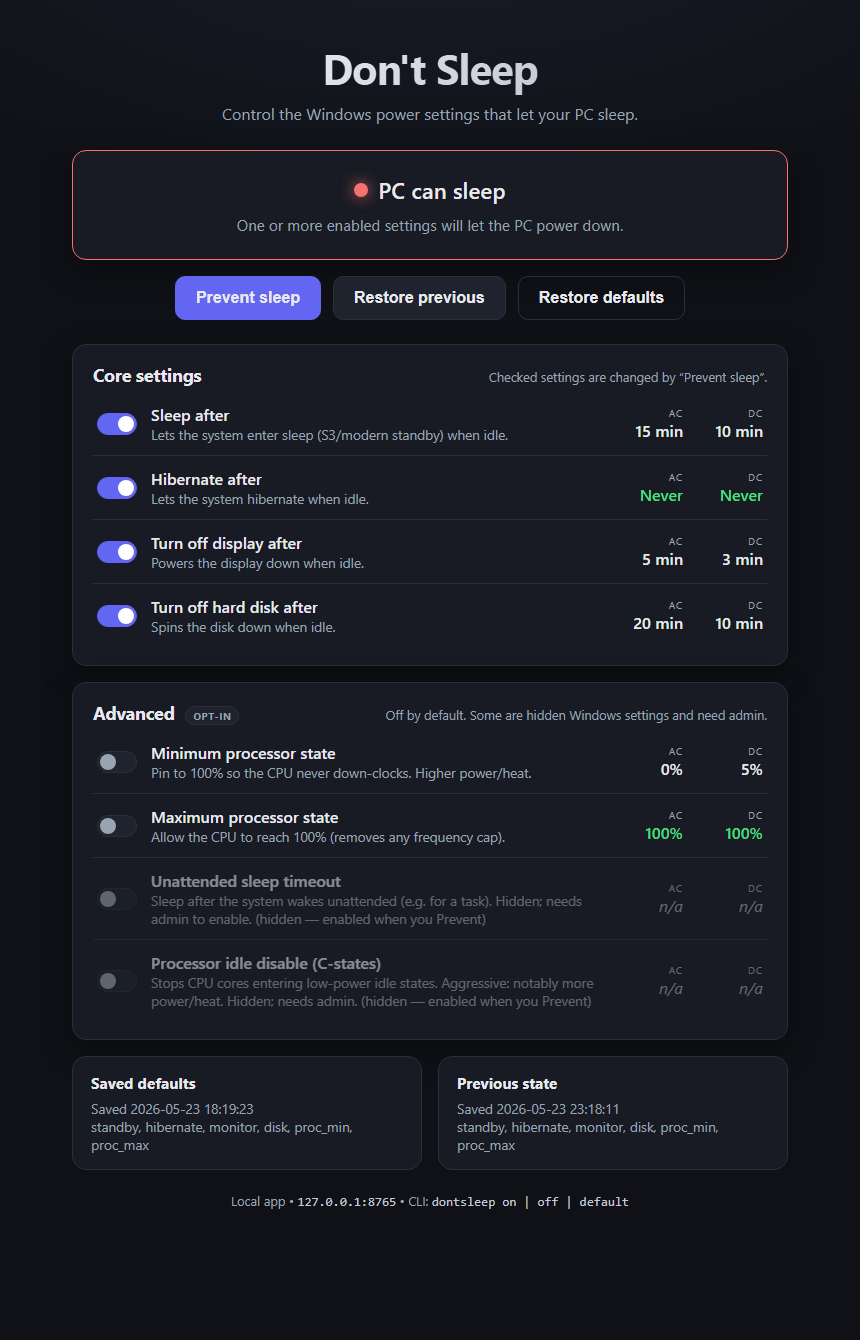
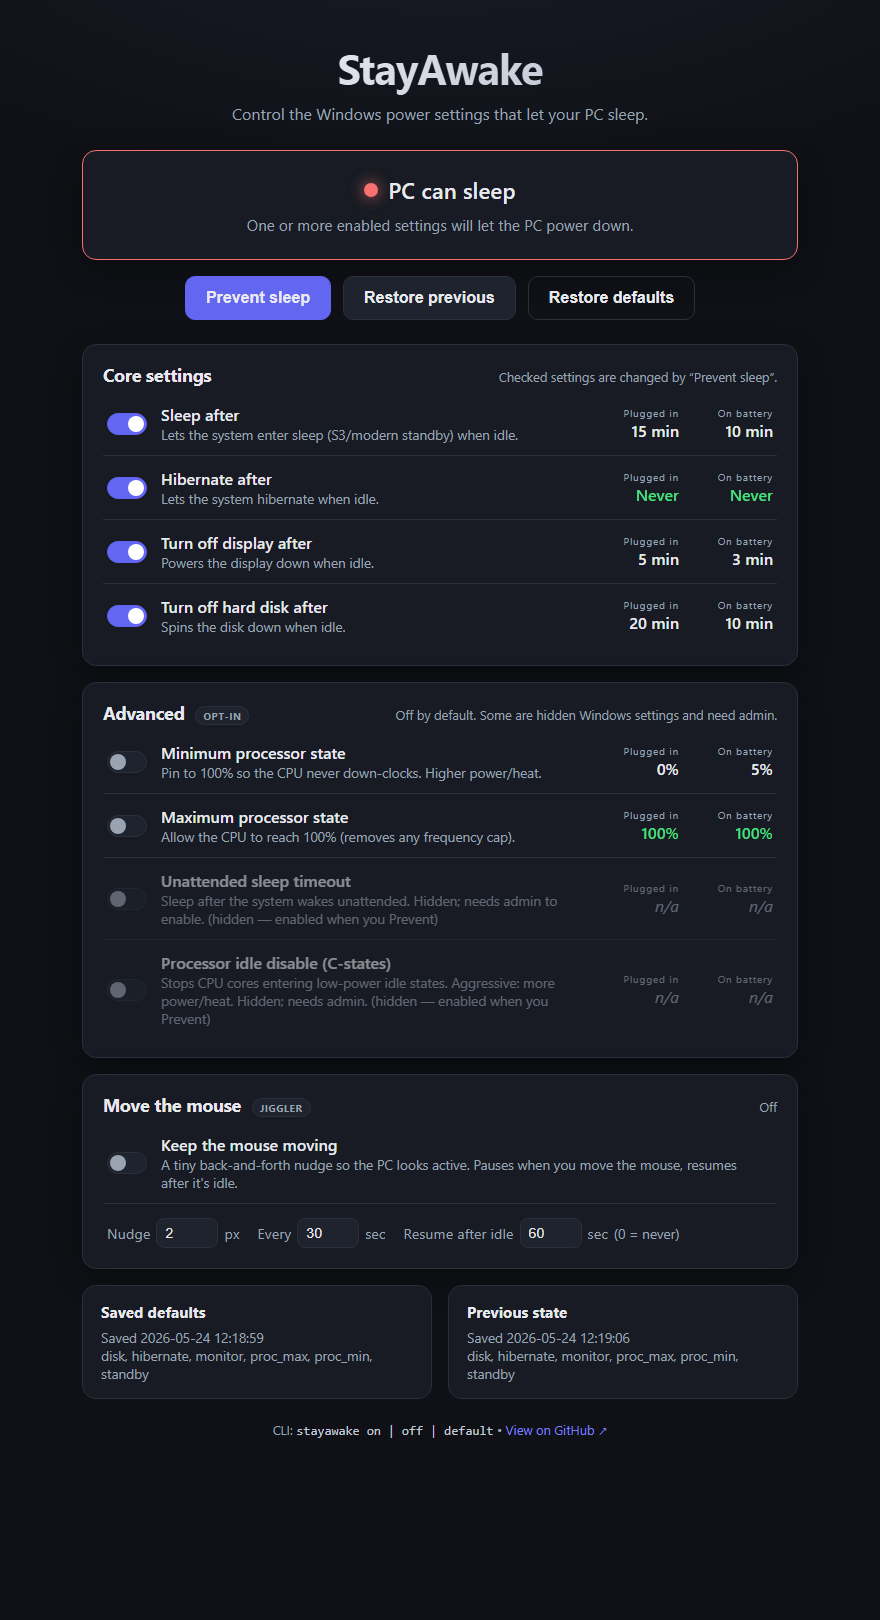
Add --port flag, GitHub link in the UI, and refreshed screenshots
- --port N: default 8765 auto-bumps to the next free port if busy;
  an explicit --port is strict (errors if the port is taken). The
  active port is persisted so open/stop find it.
- Web UI footer links to the GitHub repo.
- Regenerate README/Pages screenshots (StayAwake brand,
  "Plugged in / On battery", jiggler card, GitHub link).

diff --git a/static/index.html b/static/index.html
@@ -82,7 +82,7 @@
     <div class="toast" id="toast" hidden></div>
 
     <footer class="footer">
-      <span>Local app • <code>127.0.0.1:8765</code> • CLI: <code>stayawake on | off | default</code></span>
+      <span>CLI: <code>stayawake on | off | default</code> • <a href="https://github.com/vdiehl/dont-sleep" target="_blank" rel="noopener">View on GitHub&nbsp;↗</a></span>
     </footer>
   </main>
 

diff --git a/static/style.css b/static/style.css
@@ -139,6 +139,8 @@ html, body {
 
 .footer { text-align: center; color: var(--muted); font-size: 0.8rem; margin-top: 8px; }
 .footer code { color: #c3c9d6; }
+.footer a { color: var(--primary-hover); text-decoration: none; }
+.footer a:hover { text-decoration: underline; }
 
 @media (max-width: 560px) {
   .snapshots { grid-template-columns: 1fr; }

diff --git a/main.go b/main.go
@@ -56,24 +56,87 @@ func jigglerLoad() (bool, jiggler.Config) {
 var staticFS embed.FS
 
 const (
-	host = "127.0.0.1"
-	port = 8765
+	host        = "127.0.0.1"
+	defaultPort = 8765
 )
 
-func addr() string { return fmt.Sprintf("%s:%d", host, port) }
-func url() string  { return fmt.Sprintf("http://%s/", addr()) }
+func addrFor(p int) string { return fmt.Sprintf("%s:%d", host, p) }
+func urlFor(p int) string  { return fmt.Sprintf("http://%s/", addrFor(p)) }
+
+// The active port is written here by `serve` so `open`/`stop` can find it
+// (needed because the port may be chosen via --port or auto-bumped if busy).
+func portFile() string { return filepath.Join(core.StateDir(), "port") }
+
+func writePortFile(p int) {
+	_ = os.MkdirAll(core.StateDir(), 0o755)
+	_ = os.WriteFile(portFile(), []byte(strconv.Itoa(p)), 0o644)
+}
+
+func readActivePort() (int, bool) {
+	b, err := os.ReadFile(portFile())
+	if err != nil {
+		return 0, false
+	}
+	p, err := strconv.Atoi(strings.TrimSpace(string(b)))
+	if err != nil {
+		return 0, false
+	}
+	return p, true
+}
+
+// parsePort pulls a `--port N` flag out of args, defaulting to def.
+func parsePort(args []string, def int) int {
+	for i := 0; i+1 < len(args); i++ {
+		if args[i] == "--port" {
+			if n, err := strconv.Atoi(args[i+1]); err == nil && n > 0 && n < 65536 {
+				return n
+			}
+		}
+	}
+	return def
+}
+
+// hasPortFlag reports whether the user explicitly passed a valid --port.
+func hasPortFlag(args []string) bool {
+	for i := 0; i+1 < len(args); i++ {
+		if args[i] == "--port" {
+			if _, err := strconv.Atoi(args[i+1]); err == nil {
+				return true
+			}
+		}
+	}
+	return false
+}
+
+// listen binds 127.0.0.1, trying `tries` consecutive ports from `start`.
+// tries == 1 means honor exactly that port (used for an explicit --port).
+func listen(start, tries int) (net.Listener, int, error) {
+	var lastErr error
+	for p := start; p < start+tries && p < 65536; p++ {
+		ln, err := net.Listen("tcp", addrFor(p))
+		if err == nil {
+			return ln, p, nil
+		}
+		lastErr = err
+	}
+	return nil, 0, fmt.Errorf("could not bind a port near %d: %v", start, lastErr)
+}
 
 func main() {
+	// First non-flag token is the command; flags (e.g. --port) may follow or,
+	// for the default "open", come first (`stayawake --port 9000`).
+	args := os.Args[1:]
 	cmd := "open"
-	if len(os.Args) > 1 {
-		cmd = strings.ToLower(os.Args[1])
+	if len(args) > 0 && !strings.HasPrefix(args[0], "-") {
+		cmd = strings.ToLower(args[0])
+		args = args[1:]
 	}
 	var code int
 	switch cmd {
 	case "serve":
-		code = cmdServe()
+		code = cmdServe(args)
 	case "open", "":
-		code = cmdOpen()
+		code = cmdOpen(args)
 	case "on":
 		code = cmdAction("on")
 	case "off":
@@ -83,17 +146,17 @@ func main() {
 	case "status":
 		printStatus(core.GetStatus())
 	case "enable":
-		code = cmdSetEnabled(os.Args[2:], true)
+		code = cmdSetEnabled(args, true)
 	case "disable":
-		code = cmdSetEnabled(os.Args[2:], false)
+		code = cmdSetEnabled(args, false)
 	case "jiggle":
-		code = cmdJiggle(os.Args[2:])
+		code = cmdJiggle(args)
 	case "__jiggle": // internal: the detached daemon entry point
 		jiggler.RunDaemon(pidPath(), statePath(), jigglerLoad)
 	case "stop":
 		code = cmdStop()
 	case "uninstall":
-		code = cmdUninstall(os.Args[2:])
+		code = cmdUninstall(args)
 	case "help", "-h", "--help":
 		fmt.Print(usage)
 	default:
@@ -118,18 +181,23 @@ Usage:
   stayawake jiggle off  Stop the mouse jiggler.
   stayawake stop        Stop the background web server.
   stayawake uninstall   Restore defaults and remove from PATH/shortcuts.
+
+Flags:
+  --port N              Web UI port. The default (8765) auto-bumps to the next
+                        free port if busy; an explicit --port must be free or it
+                        errors. Works with the default open and with 'serve'.
 `
 
 // ---- HTTP server ----------------------------------------------------------
 
-func cmdServe() int {
+func cmdServe(args []string) int {
 	sub, err := fs.Sub(staticFS, "static")
 	if err != nil {
 		fmt.Fprintln(os.Stderr, err)
 		return 1
 	}
 	mux := http.NewServeMux()
-	srv := &http.Server{Addr: addr(), Handler: mux}
+	srv := &http.Server{Handler: mux}
 
 	mux.HandleFunc("/api/status", func(w http.ResponseWriter, r *http.Request) {
 		s := core.GetStatus()
@@ -183,9 +251,26 @@ func cmdServe() int {
 	})
 	mux.Handle("/", http.FileServer(http.FS(sub)))
 
+	desired := parsePort(args, defaultPort)
+	tries := 21 // default port: auto-bump to the next free one if busy
+	if hasPortFlag(args) {
+		tries = 1 // explicit --port: honor it exactly, or fail
+	}
+	ln, actual, err := listen(desired, tries)
+	if err != nil {
+		if tries == 1 {
+			fmt.Fprintf(os.Stderr, "Port %d is already in use. Choose another with --port.\n", desired)
+		} else {
+			fmt.Fprintln(os.Stderr, err)
+		}
+		return 1
+	}
+	writePortFile(actual)
+	defer os.Remove(portFile())
+
 	applyJiggler() // start the jiggler if it was left enabled
-	fmt.Println("StayAwake serving at", url())
-	if err := srv.ListenAndServe(); err != nil && err != http.ErrServerClosed {
+	fmt.Println("StayAwake serving at", urlFor(actual))
+	if err := srv.Serve(ln); err != nil && err != http.ErrServerClosed {
 		fmt.Fprintln(os.Stderr, err)
 		return 1
 	}
@@ -208,21 +293,26 @@ func writeJSON(w http.ResponseWriter, payload any, err error) {
 
 // ---- CLI ------------------------------------------------------------------
 
-func serverRunning() bool {
-	c, err := net.DialTimeout("tcp", addr(), 400*time.Millisecond)
+// serverRunning returns the active port if a server is reachable, else ok=false.
+func serverRunning() (int, bool) {
+	p, ok := readActivePort()
+	if !ok {
+		return 0, false
+	}
+	c, err := net.DialTimeout("tcp", addrFor(p), 400*time.Millisecond)
 	if err != nil {
-		return false
+		return 0, false
 	}
 	_ = c.Close()
-	return true
+	return p, true
 }
 
-func startServerDetached() bool {
+func startServerDetached(desiredPort int) bool {
 	exe, err := os.Executable()
 	if err != nil {
 		return false
 	}
-	cmd := exec.Command(exe, "serve")
+	cmd := exec.Command(exe, "serve", "--port", strconv.Itoa(desiredPort))
 	cmd.SysProcAttr = &syscall.SysProcAttr{
 		HideWindow:    true,
 		CreationFlags: 0x00000008 | 0x00000200, // DETACHED_PROCESS | CREATE_NEW_PROCESS_GROUP
@@ -231,7 +321,7 @@ func startServerDetached() bool {
 		return false
 	}
 	for i := 0; i < 50; i++ {
-		if serverRunning() {
+		if _, ok := serverRunning(); ok {
 			return true
 		}
 		time.Sleep(100 * time.Millisecond)
@@ -245,16 +335,24 @@ func openBrowser(u string) {
 	_ = cmd.Start()
 }
 
-func cmdOpen() int {
-	if !serverRunning() {
-		fmt.Println("Starting StayAwake...")
-		if !startServerDetached() {
-			fmt.Fprintln(os.Stderr, "Could not start the server.")
-			return 1
-		}
+func cmdOpen(args []string) int {
+	if p, ok := serverRunning(); ok {
+		openBrowser(urlFor(p))
+		fmt.Println("Opened", urlFor(p))
+		return 0
 	}
-	openBrowser(url())
-	fmt.Println("Opened", url())
+	fmt.Println("Starting StayAwake...")
+	if !startServerDetached(parsePort(args, defaultPort)) {
+		fmt.Fprintln(os.Stderr, "Could not start the server.")
+		return 1
+	}
+	p, ok := serverRunning()
+	if !ok {
+		fmt.Fprintln(os.Stderr, "Server did not come up.")
+		return 1
+	}
+	openBrowser(urlFor(p))
+	fmt.Println("Opened", urlFor(p))
 	return 0
 }
 
@@ -385,11 +483,12 @@ func cmdJiggle(args []string) int {
 }
 
 func cmdStop() int {
-	if !serverRunning() {
+	p, ok := serverRunning()
+	if !ok {
 		fmt.Println("Server is not running.")
 		return 0
 	}
-	_, _ = http.Post(url()+"api/quit", "application/json", bytes.NewReader([]byte("{}")))
+	_, _ = http.Post(urlFor(p)+"api/quit", "application/json", bytes.NewReader([]byte("{}")))
 	fmt.Println("Stopped the StayAwake server.")
 	return 0
 }
@@ -470,10 +569,11 @@ func cmdUninstall(args []string) int {
 	}
 
 	// Stop a running background server (its CWD may be the install folder).
-	if serverRunning() {
-		_, _ = http.Post(url()+"api/quit", "application/json", bytes.NewReader([]byte("{}")))
+	if p, ok := serverRunning(); ok {
+		_, _ = http.Post(urlFor(p)+"api/quit", "application/json", bytes.NewReader([]byte("{}")))
 		time.Sleep(500 * time.Millisecond)
 	}
+	jiggler.Stop(pidPath())
 
 	exe, _ := os.Executable()
 	installDir := filepath.Dir(exe)

diff --git a/README.md b/README.md
@@ -61,6 +61,10 @@ use the `stayawake` command.
 `on` / `off` / `default` / `status` run without the server and share the exact
 same logic as the UI, so changes are reflected in both.
 
+The web UI uses port **8765** by default; pass `--port N` (with `stayawake` or
+`stayawake serve`) to change it. The default port auto-bumps to the next free
+one if it's busy; an **explicit `--port` must be free or it errors**.
+
 ## What it controls
 
 Settings are split into **core** (changed by default) and **advanced** (opt-in,
